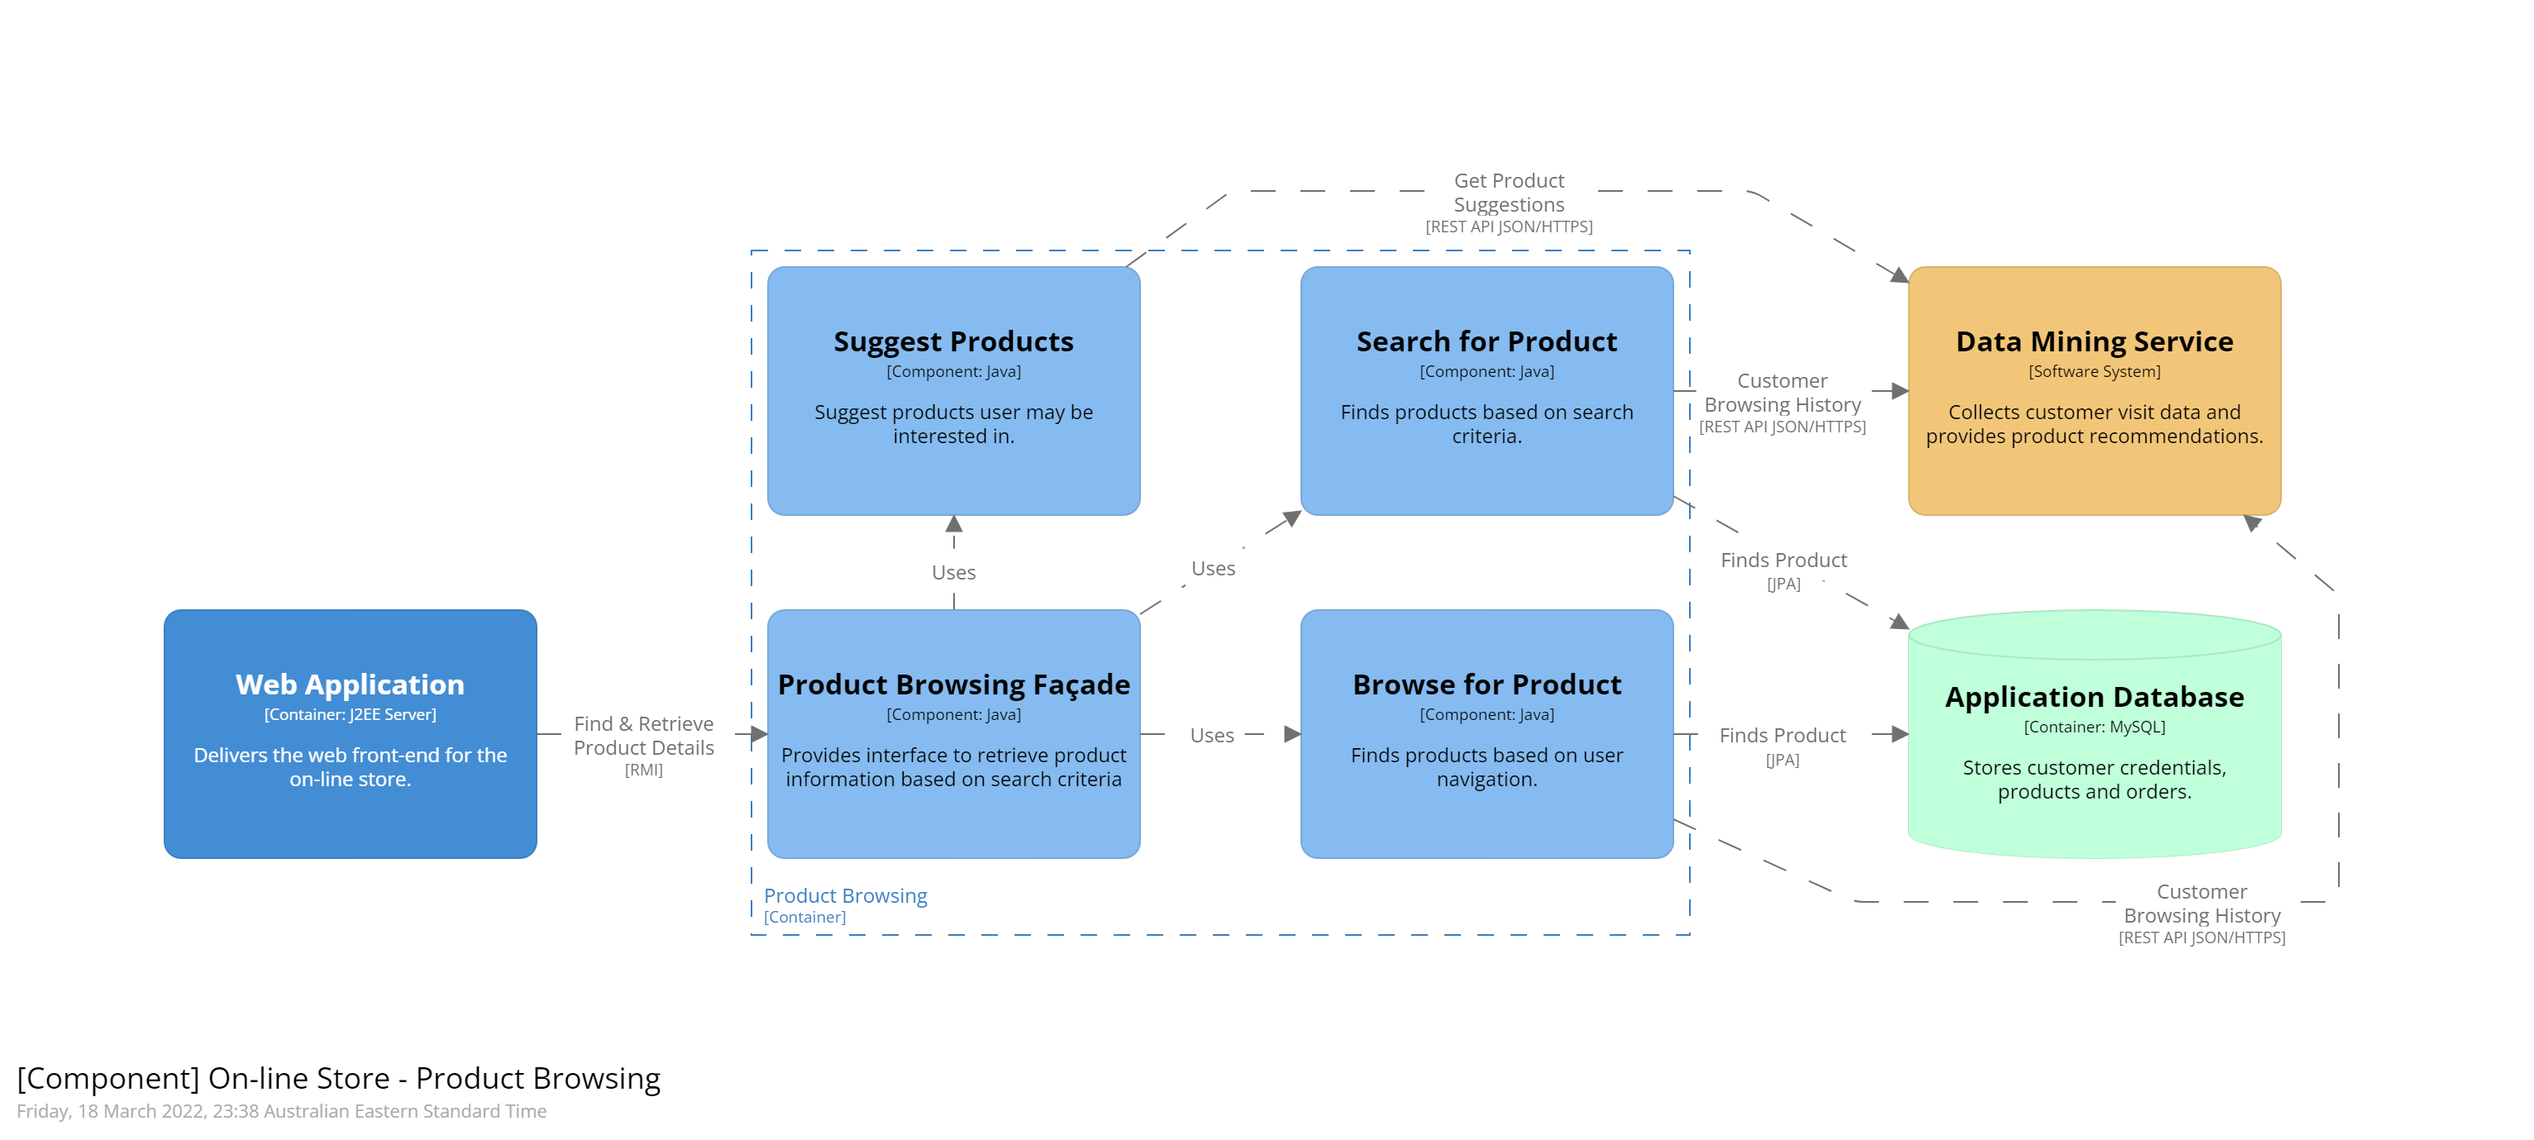
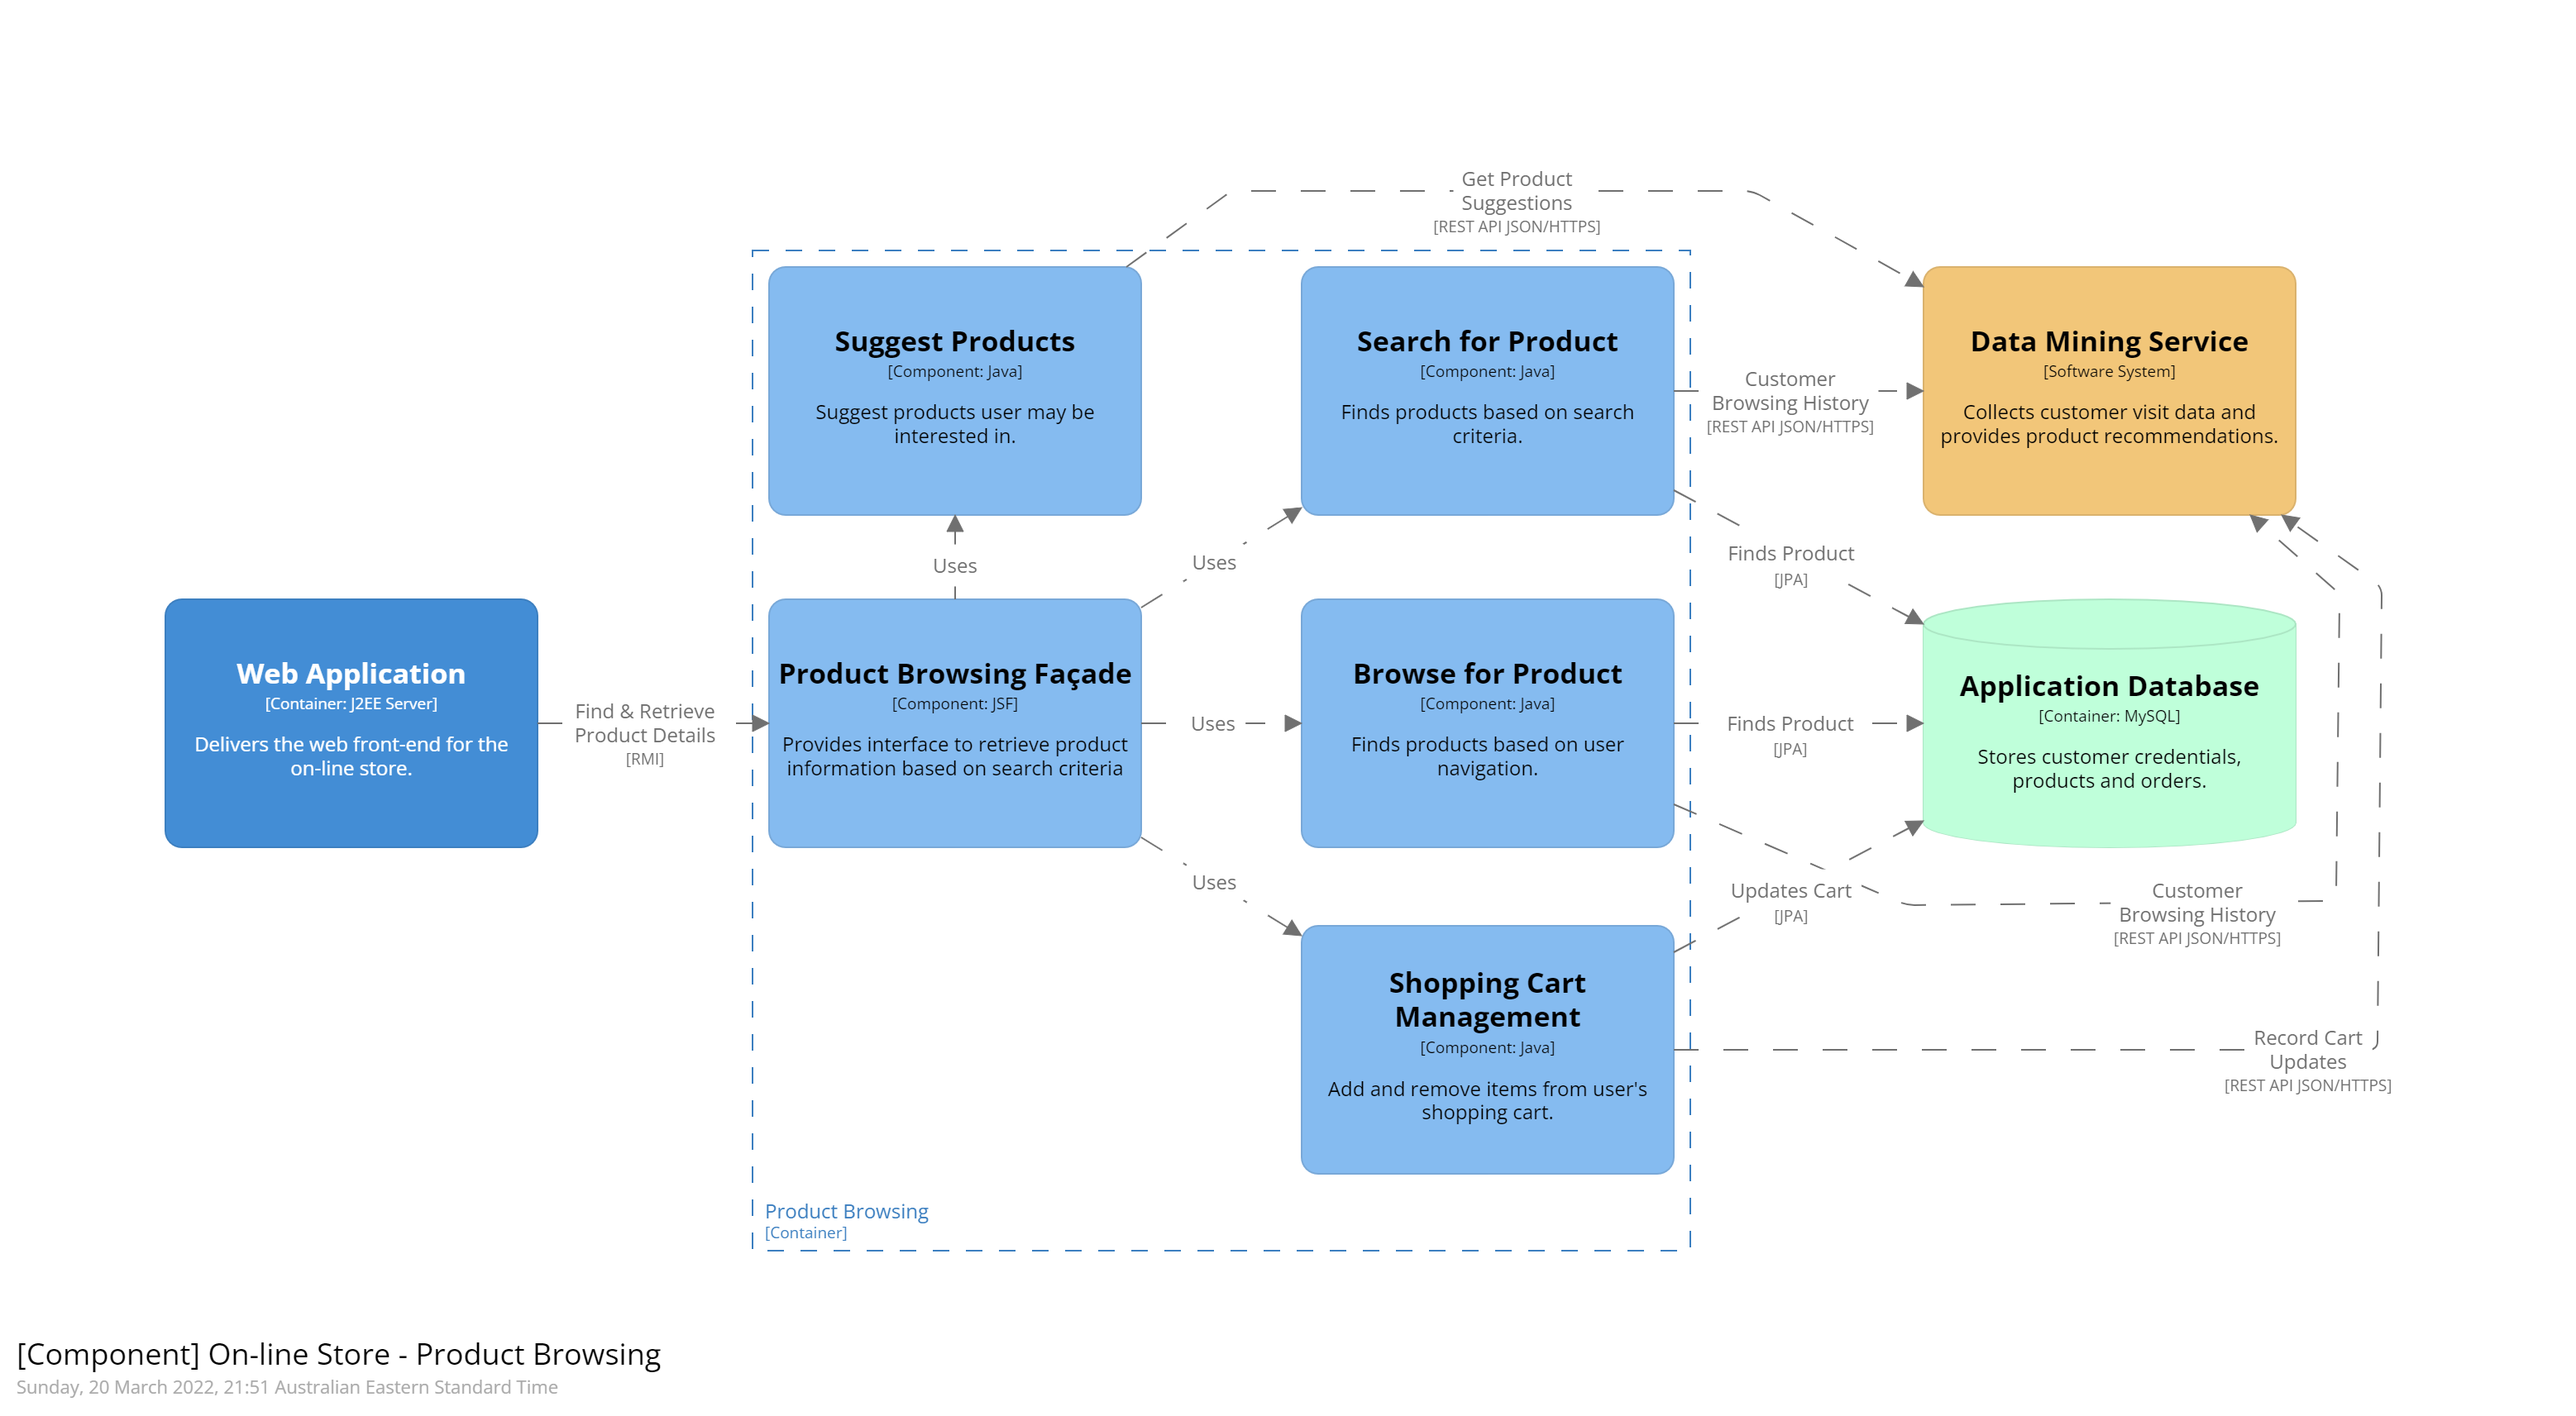
Completed service-based architecture slides.

Changed region(s): [[0.062, 0.1247, 0.9299, 0.8419], [0.0, 0.9355, 0.279, 0.9978], [0.279, 0.8419, 0.3719, 0.8731]]

diff --git a/public/schedule/index.html b/public/schedule/index.html
@@ -343,7 +343,7 @@
         </div>
 
         <br/><br/>
-        <div class="card draft">
+        <div class="card">
             <a id="week4" href="#week4" class="week-link">
                 <div class="card-header">
                     Week Four (Tentative)
@@ -362,6 +362,9 @@
                         Service-based Architecture
                         <a href="/handouts/service-based.pdf" target="_blank">
                             <span class="link badge bg-secondary "><i class="fas fa-file-pdf "></i> Handout</span>
+                        </a>
+                        <a href="/slides/service-based.pdf" target="_blank">
+                            <span class="link badge bg-secondary "><i class="fas fa-file-image "></i> Slides</span>
                         </a>
                     </li>
                     <li class="list-group-item">

diff --git a/public/index.html b/public/index.html
@@ -101,7 +101,7 @@
                     </td>
                     <td><a href="/schedule#week3">Content</a></td>
                 </tr>
-                <tr class="draft">
+                <tr>
                     <th scope="row">4</th>
                     <td>Mar 21</td>
                     <td>

diff --git a/slides/service-based/main.tex b/slides/service-based/main.tex
@@ -112,7 +112,37 @@ A component within the service coordinates how to deliver the requested function
     \item Order Personnel \& Payment Provider added to this example.
 }
 
-\todo{Slide to introduce domain services for Sahara example.}
+\begin{frame}{On-line Store Service Domains}
+    \vspace{1mm}
+    {\LARGE
+    \begin{description}
+        \item[Browsing] Customers can find products \& add to cart
+        \item[Purchasing] Customers can purchase products in cart
+        \item[Fulfilment] Customers \& staff can track order fulfilment
+        \item[Account Management] Customers can manage their account details
+        \item[Inventory Management] Staff can view stock levels and order new stock
+    \end{description}
+    }
+\end{frame}
+\note[itemize]{
+    \item Mention that service-based architectures are based on domain partitioning.
+    \item Could provide examples of fulfilment, and inventory management activities.
+    \item Customer's tracking order, staff generating pick lists and packaging details.
+    \item Generating reports on stock levels and product popularity. Ordering new stock.
+}
+
+\point[Partitioning]{Services are defined by domain partitioning.}
+
+\begin{frame}{Coarse Services}
+    \vspace{1mm}
+    {\LARGE
+    \begin{itemize}
+        \item Domains are large, coarse-grained services
+        \item Each service will have an internal architecture
+        \item Technical or domain partitioning may be done internally
+    \end{itemize}
+    }
+\end{frame}
 
 \begin{frame}{Sahara: On-line Store Container Diagram}
     \begin{adjustwidth}{-5mm}{-5mm}
@@ -129,7 +159,7 @@ A component within the service coordinates how to deliver the requested function
 \begin{frame}{Sahara: Product Browsing Component Diagram}
     \begin{adjustwidth}{-10mm}{-10mm}
         \centering
-        \includegraphics[trim=190 240 230 200,clip,width=0.97\paperwidth]{diagrams/sahara-component-browse.png}
+        \includegraphics[trim=190 200 230 200,clip,width=0.97\paperwidth]{diagrams/sahara-component-browse.png}
     \end{adjustwidth}
 \end{frame}
 \note[itemize]{
@@ -137,7 +167,27 @@ A component within the service coordinates how to deliver the requested function
     \item Product Browsing Façade provides the Service API.
 }
 
-\todo{REST API for Product Browsing?}
+\begin{frame}{Product Browsing Service API}
+    \vspace{1mm}
+    {\LARGE
+    \begin{description}
+        \item[Search] https://api.sahara.com/v1/search?keywords=...
+        \item[Browse] https://api.sahara.com/v1/browse?category=...
+        \item[Add to Cart] https://api.sahara.com/v1/cart
+    \end{description}
+    \vspace{4mm}
+    \begin{itemize}
+        \item JSON to pass data
+        \item JSF action controller handles request
+    \end{itemize}
+    }
+\end{frame}
+\note[itemize]{
+    \item Search \& Browse are GET requests passing parameters.
+    \item Add to Cart is a POST request passing product id and quantity to be added to cart.
+    \item Authentication needs to be part of requests.
+    \item API Versioning shown in URIs.
+}
 
 \begin{frame}{Sahara: Deployment Diagram}
     \begin{adjustwidth}{-5mm}{-5mm}
@@ -150,31 +200,84 @@ A component within the service coordinates how to deliver the requested function
     \item This allows multiple concurrent users, even through one user interface.
 }
 
-\todo{
-Issue of failures in distributed systems?\\
-Show service architecture for Sahara and summarise parallel flows through services.\\
-Aside about stateless services and possible multi-threaded web pages (e.g. JSF).\\
-Comment about Services being domain partitioning, but Service internals may be technical or domain paritioned.
+\begin{frame}{Sahara: Concurrent Access}
+    \begin{adjustwidth}{-5mm}{-5mm}
+        \centering
+        \includegraphics[trim=1 0 1 5,clip,width=0.935\paperwidth]{diagrams/sahara-concurrency.png}
+    \end{adjustwidth}
+\end{frame}
+\note[itemize]{
+    \item Emphasise many users from different UIs accessing distributed services concurrently.
+    \item Point out that this require \& REST require stateless services.
 }
 
-%\begin{frame}{Failure Issues}
+\questionanswer{What happens if a service goes down?}
+{Need to manage timeouts, retries, graceful failure, \dots}
+\note[itemize]{
+    \item Some of this can be managed by infrastructure, which requires monitoring systems.
+    \item Some issues are harder to deal with due to coarse service domains.
+    \item Some of this needs to be managed within the application.
+}
+
+\begin{frame}{Consider Network Failure}
+    \vspace{1mm}
+    {\LARGE
+    If customer tried to add product to cart:
+    \begin{itemize}
+        \item What happens if Product Browsing didn't receive it?
+        \item What happens if UI didn't get a response?
+        \item What happens if Database wasn't updated?
+    \end{itemize}
+    }
+\end{frame}
+
+%Failure Issues
 %Failure is the defining difference between distributed and local programming, so you have to design distributed systems with the expectation of failure. Imagine asking people, "If the probability of something happening is one in 1013, how often would it happen?" Common sense would be to answer, "Never." That is an infinitely large number in human terms. But if you ask a physicist, she would say, "All the time. In a cubic foot of air, those things happen all the time."
 %
 %When you design distributed systems, you have to say, "Failure happens all the time." So when you design, you design for failure. It is your number one concern. What does designing for failure mean? One classic problem is partial failure. If I send a message to you and then a network failure occurs, there are two possible outcomes. One is that the message got to you, and then the network broke, and I just didn't get the response. The other is the message never got to you because the network broke before it arrived.
 %
 %So if I never receive a response, how do I know which of those two results happened? I cannot determine that without eventually finding you. The network has to be repaired or you have to come up, because maybe what happened was not a network failure but you died. How does this change how I design things? For one thing, it puts a multiplier on the value of simplicity. The more things I can do with you, the more things I have to think about recovering from.
 % -- https://www.artima.com/articles/designing-distributed-systems
-%\end{frame}
+
+\begin{frame}{API Layer}
+    \centering
+    \includegraphics[trim=39 37 21 42,clip,width=0.75\textwidth]{../../notes/service-based/diagrams/api-layer.png}
+\end{frame}
+
+\begin{frame}{API Layer Advantages}
+    \vspace{1mm}
+    {\LARGE
+    \begin{itemize}
+        \item Acts as a reverse proxy or gateway to services
+        \vspace{2mm}
+        \item Hides internal network structure
+        \vspace{4mm}
+        \item Easier to implement \emph{cross-cutting} concerns
+        \begin{itemize}
+            \Large\item e.g. security policies
+        \end{itemize}
+        \vspace{2mm}
+        \item Allows service discovery
+        \begin{itemize}
+            \Large\item Interface to register service
+            \Large\item Clients can find out what services are available
+        \end{itemize}
+    \end{itemize}
+    }
+\end{frame}
 
 \begin{frame}{Pros \& Cons}
     \vspace{1mm}
-    {\huge
+    {\LARGE
     \begin{description}
-        \item[Simplicity] Core system \& Plug-in interface \tabto{15em}\includegraphics[width=10mm]{../../shared/images/thumbs-up.png}
-        \item[Extensibility] Plug-ins \tabto{15em}\includegraphics[width=10mm]{../../shared/images/thumbs-up.png}
-        \item[Interoperability] Plug-ins \tabto{15em}\includegraphics[width=10mm]{../../shared/images/thumbs-up.png}
-        \item[Scalability] \tabto{15em}\includegraphics[trim=22 19 22 15,clip,width=10mm]{../../shared/images/thumbs-down.png}
-        \item[Reliability] \tabto{15em}\includegraphics[trim=22 19 22 15,clip,width=10mm]{../../shared/images/thumbs-down.png}
+        \item[Simplicity] For a distributed system \tabto{15em}\includegraphics[width=8mm]{../../shared/images/thumbs-up.png}
+        \item[Modularity] Services \tabto{15em}\includegraphics[width=8mm]{../../shared/images/thumbs-up.png}
+        \item[Extensibility] New services \tabto{15em}\includegraphics[width=8mm]{../../shared/images/thumbs-up.png}
+        \item[Deployability] Independent services \tabto{15em}\includegraphics[width=8mm]{../../shared/images/thumbs-up.png}
+        \item[Testability] Independent services \tabto{15em}\includegraphics[width=8mm]{../../shared/images/thumbs-up.png}
+        \item[Reliability] Independent services \tabto{15em}\includegraphics[trim=57 145 70 85,clip,width=8mm]{../../shared/images/neutral.png}
+        \item[Interoperability] Service APIs \tabto{15em}\includegraphics[trim=57 145 70 85,clip,width=8mm]{../../shared/images/neutral.png}
+        \item[Scalability] Coarse-grained services\tabto{15em}\includegraphics[trim=22 19 22 12,clip,width=8mm]{../../shared/images/thumbs-down.png}
     \end{description}
     }
 \end{frame}
